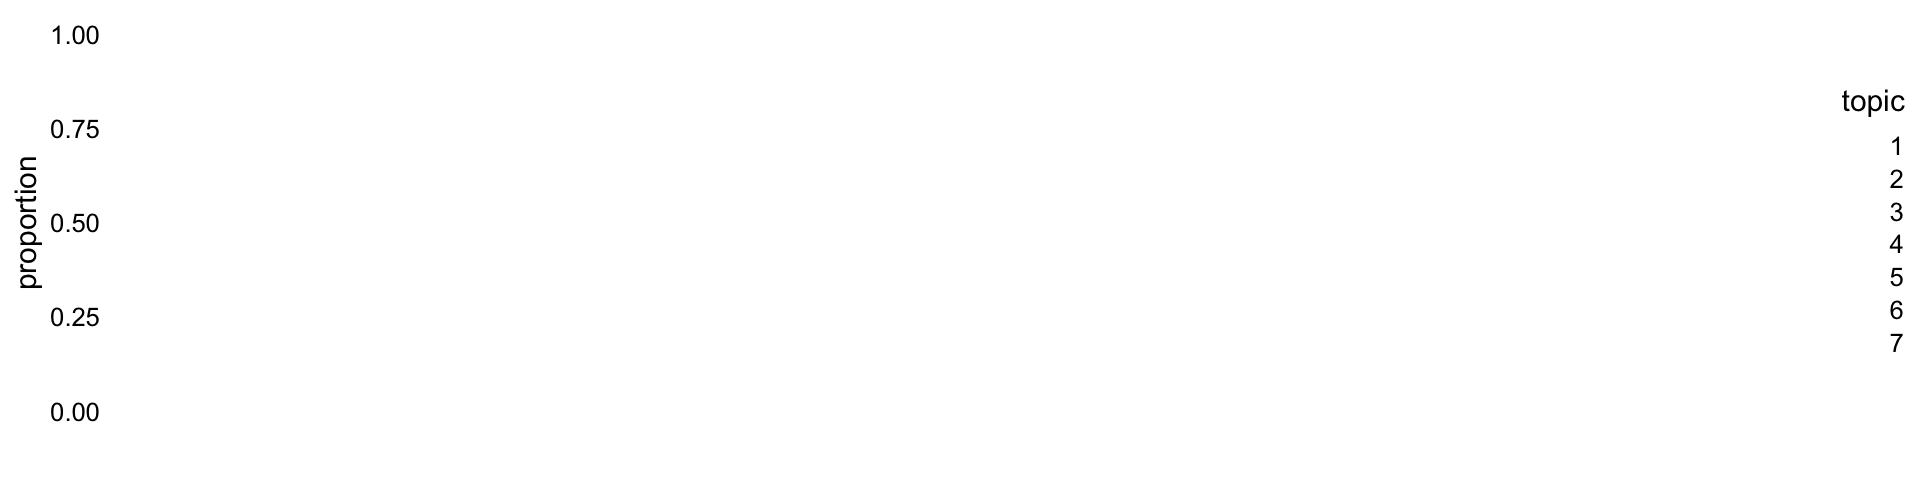
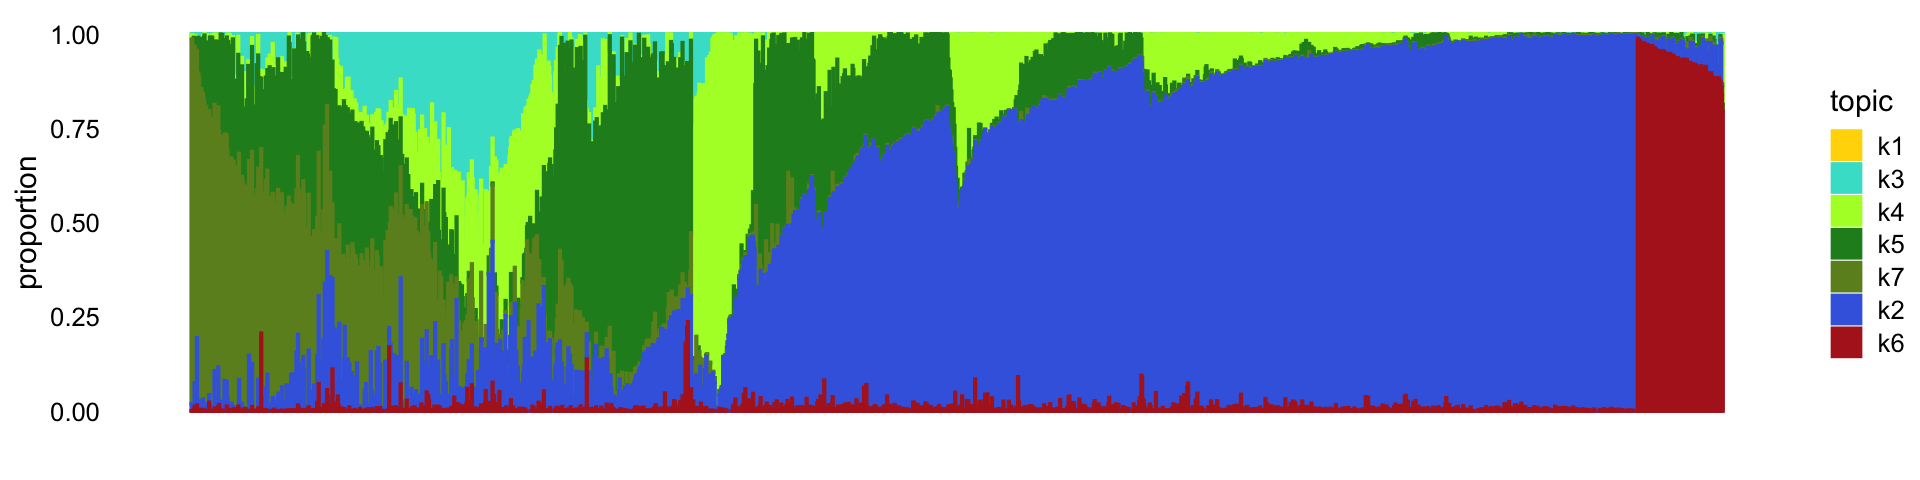
Fixed another structure plot in plots_tracheal_epithelium analysis.

diff --git a/docs/plots_tracheal_epithelium.html b/docs/plots_tracheal_epithelium.html
@@ -412,23 +412,22 @@ This reproducible <a href="http://rmarkdown.rstudio.com">R Markdown</a> analysis
 <div class="panel panel-default">
 <div class="panel-heading">
 <p class="panel-title">
-<a data-toggle="collapse" data-parent="#workflowr-checks" href="#strongRepositoryversionstrongahrefhttpsgithubcomstephenslabsinglecelltopicstree3a7bd7465276742c305377eb2737c52e0e031abetargetblank3a7bd74a"> <span class="glyphicon glyphicon-ok text-success" aria-hidden="true"></span> <strong>Repository version:</strong> <a href="https://github.com/stephenslab/single-cell-topics/tree/3a7bd7465276742c305377eb2737c52e0e031abe" target="_blank">3a7bd74</a> </a>
+<a data-toggle="collapse" data-parent="#workflowr-checks" href="#strongRepositoryversionstrongahrefhttpsgithubcomstephenslabsinglecelltopicstree29a9258d418e4df1553836d2e1a3de7073ce2e3etargetblank29a9258a"> <span class="glyphicon glyphicon-ok text-success" aria-hidden="true"></span> <strong>Repository version:</strong> <a href="https://github.com/stephenslab/single-cell-topics/tree/29a9258d418e4df1553836d2e1a3de7073ce2e3e" target="_blank">29a9258</a> </a>
 </p>
 </div>
[2 lines of base64/hex data omitted]
 <div class="panel-body">
 <p>
 Great! You are using Git for version control. Tracking code development and connecting the code version to the results is critical for reproducibility.
 </p>
 <p>
-The results in this page were generated with repository version <a href="https://github.com/stephenslab/single-cell-topics/tree/3a7bd7465276742c305377eb2737c52e0e031abe" target="_blank">3a7bd74</a>. See the <em>Past versions</em> tab to see a history of the changes made to the R Markdown and HTML files.
+The results in this page were generated with repository version <a href="https://github.com/stephenslab/single-cell-topics/tree/29a9258d418e4df1553836d2e1a3de7073ce2e3e" target="_blank">29a9258</a>. See the <em>Past versions</em> tab to see a history of the changes made to the R Markdown and HTML files.
 </p>
 <p>
 Note that you need to be careful to ensure that all relevant files for the analysis have been committed to Git prior to generating the results (you can use <code>wflow_publish</code> or <code>wflow_git_commit</code>). workflowr only checks the R Markdown file, but you know if there are other scripts or data files that it depends on. Below is the status of the Git repository when the results were generated:
 </p>
 <pre><code>
 Ignored files:
-    Ignored:    analysis/figure/
     Ignored:    data/droplet.RData
     Ignored:    data/pbmc_68k.RData
     Ignored:    data/pbmc_purified.RData
@@ -479,6 +478,40 @@ Message
 </tr>
 </thead>
 <tbody>
+<tr>
+<td>
+Rmd
+</td>
+<td>
+<a href="https://github.com/stephenslab/single-cell-topics/blob/29a9258d418e4df1553836d2e1a3de7073ce2e3e/analysis/plots_tracheal_epithelium.Rmd" target="_blank">29a9258</a>
+</td>
+<td>
+Peter Carbonetto
+</td>
+<td>
+2020-08-19
+</td>
+<td>
+wflow_publish(“plots_tracheal_epithelium.Rmd”)
+</td>
+</tr>
+<tr>
+<td>
+html
+</td>
+<td>
+<a href="https://rawcdn.githack.com/stephenslab/single-cell-topics/0a16b60e3247e5a35fa4637e0133965db35eab0b/docs/plots_tracheal_epithelium.html" target="_blank">0a16b60</a>
+</td>
+<td>
+Peter Carbonetto
+</td>
+<td>
+2020-08-19
+</td>
+<td>
+Fixed structure plot in plots_tracheal_epithelium analysis.
+</td>
+</tr>
 <tr>
 <td>
 Rmd
@@ -1220,7 +1253,44 @@ p10 &lt;- pca_plot_with_labels(fit_droplet,c(&quot;PC4&quot;,&quot;PC5&quot;),sa
 p11 &lt;- pca_plot_with_labels(fit_droplet,c(&quot;PC5&quot;,&quot;PC6&quot;),samples_droplet$cluster,
                             droplet_cluster_colors) + labs(fill = &quot;cluster&quot;)
 plot_grid(p9,p10,p11)</code></pre>
-<p><img src="figure/plots_tracheal_epithelium.Rmd/droplet-clustering-2-1.png" width="840" style="display: block; margin: auto;" /></p>
+<p><img src="figure/plots_tracheal_epithelium.Rmd/droplet-clustering-2-1.png" width="720" style="display: block; margin: auto;" /></p>
+<p>
+<button type="button" class="btn btn-default btn-xs btn-workflowr btn-workflowr-fig" data-toggle="collapse" data-target="#fig-droplet-clustering-2-1">
+Past versions of droplet-clustering-2-1.png
+</button>
+</p>
+<div id="fig-droplet-clustering-2-1" class="collapse">
+<div class="table-responsive">
+<table class="table table-condensed table-hover">
+<thead>
+<tr>
+<th>
+Version
+</th>
+<th>
+Author
+</th>
+<th>
+Date
+</th>
+</tr>
+</thead>
+<tbody>
+<tr>
+<td>
+<a href="https://github.com/stephenslab/single-cell-topics/blob/0a16b60e3247e5a35fa4637e0133965db35eab0b/docs/figure/plots_tracheal_epithelium.Rmd/droplet-clustering-2-1.png" target="_blank">0a16b60</a>
+</td>
+<td>
+Peter Carbonetto
+</td>
+<td>
+2020-08-19
+</td>
+</tr>
+</tbody>
+</table>
+</div>
+</div>
 <p>In the following, we will treat the more abundant clusters, <span class="math inline">\(c_1\)</span> and <span class="math inline">\(c_4\)</span>, separately from the rest of the samples.</p>
 <p><strong>TO DO:</strong> Add text here.</p>
 <pre class="r"><code>droplet_topic_colors &lt;- c(&quot;gold&quot;,&quot;royalblue&quot;,&quot;turquoise&quot;,&quot;greenyellow&quot;,
@@ -1260,6 +1330,17 @@ Date
 <tbody>
 <tr>
 <td>
+<a href="https://github.com/stephenslab/single-cell-topics/blob/0a16b60e3247e5a35fa4637e0133965db35eab0b/docs/figure/plots_tracheal_epithelium.Rmd/droplet-structure-plot-rare-1.png" target="_blank">0a16b60</a>
+</td>
+<td>
+Peter Carbonetto
+</td>
+<td>
+2020-08-19
+</td>
+</tr>
+<tr>
+<td>
 <a href="https://github.com/stephenslab/single-cell-topics/blob/fb21b3b781ba22db8b89d1fb531cf91e63e4e1d5/docs/figure/plots_tracheal_epithelium.Rmd/droplet-structure-plot-rare-1.png" target="_blank">fb21b3b</a>
 </td>
 <td>
@@ -1279,12 +1360,8 @@ fit_droplet_abundant &lt;-
   select(poisson2multinom(fit_droplet),
                           loadings = which(samples_droplet$cluster == &quot;c1&quot; |
                                            samples_droplet$cluster == &quot;c4&quot;))
-tsne_droplet_abundant &lt;- tsne_from_topics(fit_droplet_abundant,dims = 1,n = 1000,
-                                          perplexity = 100,verbose = FALSE)
-Y   &lt;- tsne_droplet_abundant$Y
-p13 &lt;- structure_plot(fit_droplet_abundant,
-                      rows   = rownames(Y)[order(Y)],
-                      colors = droplet_topic_colors)
+p13 &lt;- structure_plot(fit_droplet_abundant,verbose = FALSE,topics = topics,
+                      colors = droplet_topic_colors[topics])
 print(p13)</code></pre>
 <p><img src="figure/plots_tracheal_epithelium.Rmd/droplet-structure-plot-abundant-1.png" width="960" style="display: block; margin: auto;" /></p>
 <p>
@@ -1309,6 +1386,17 @@ Date
 </tr>
 </thead>
 <tbody>
+<tr>
+<td>
+<a href="https://github.com/stephenslab/single-cell-topics/blob/0a16b60e3247e5a35fa4637e0133965db35eab0b/docs/figure/plots_tracheal_epithelium.Rmd/droplet-structure-plot-abundant-1.png" target="_blank">0a16b60</a>
+</td>
+<td>
+Peter Carbonetto
+</td>
+<td>
+2020-08-19
+</td>
+</tr>
 <tr>
 <td>
 <a href="https://github.com/stephenslab/single-cell-topics/blob/f4bdf191a428ef8917fdd6f9e386653350125a0d/docs/figure/plots_tracheal_epithelium.Rmd/droplet-structure-plot-abundant-1.png" target="_blank">f4bdf19</a>
